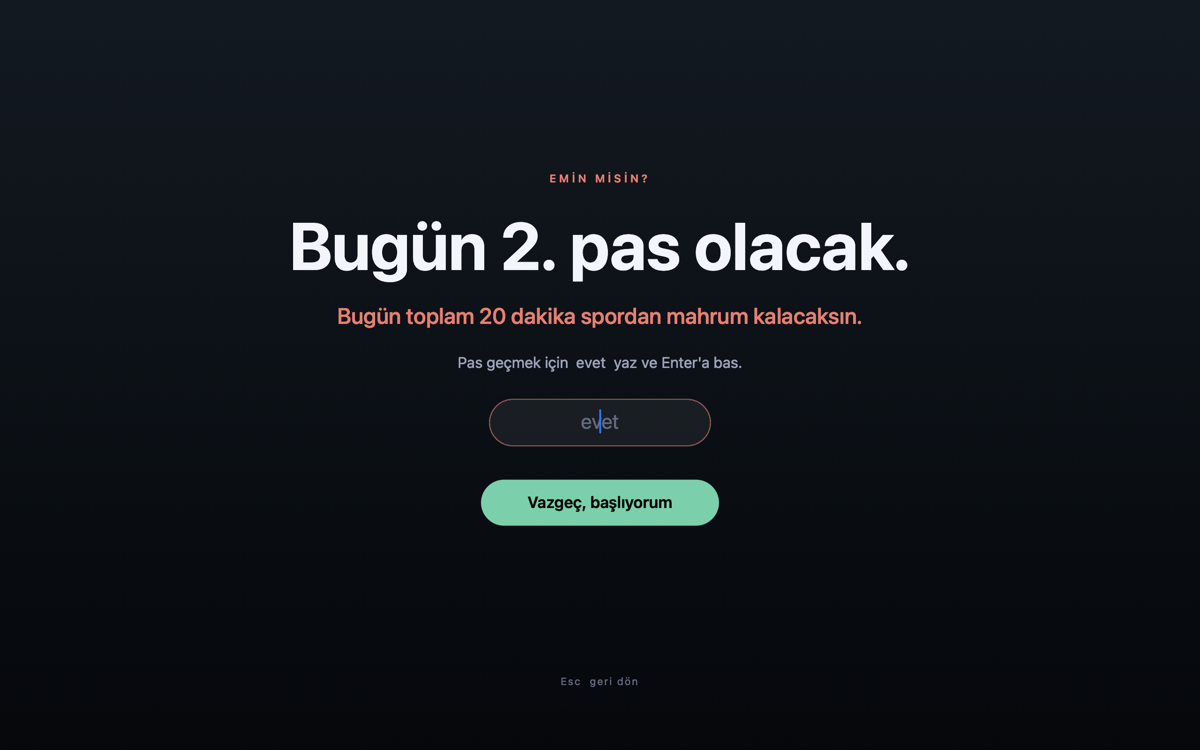
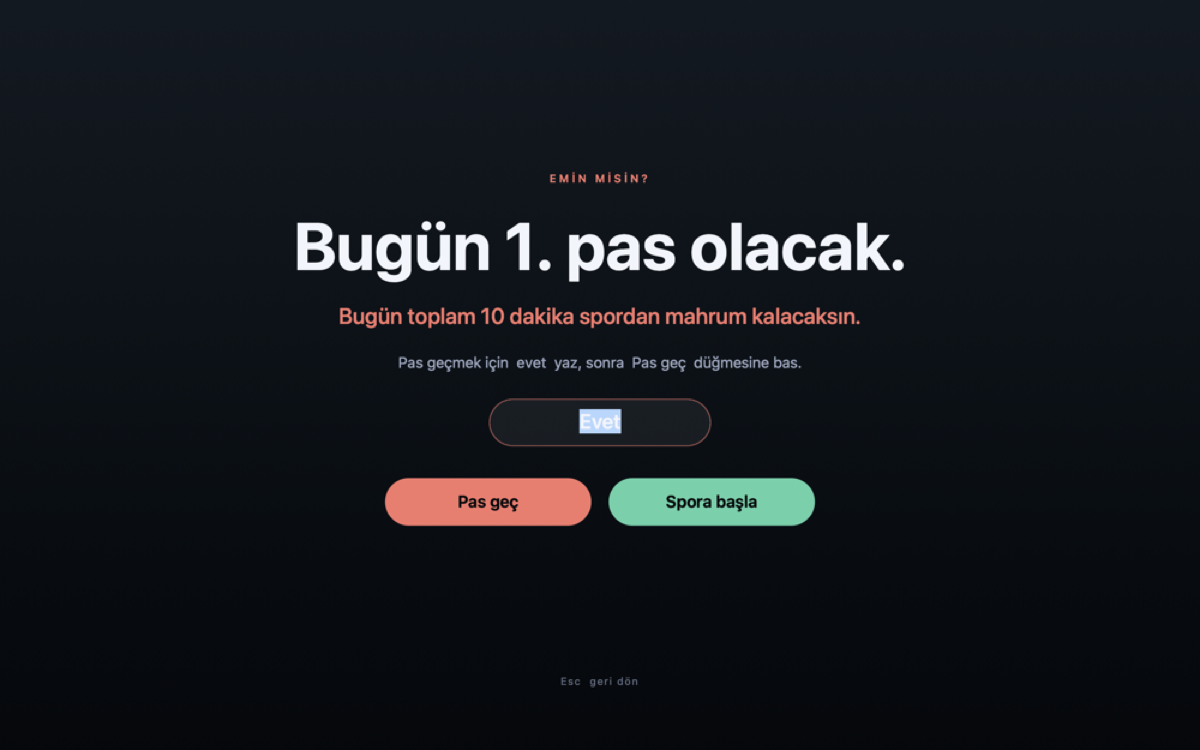
Pas onayında açık seçim: 'Pas geç' ve 'Spora başla' düğmeleri
'evet' yazmak artık doğrudan pas geçmiyor; 'Pas geç' düğmesini açıyor.

diff --git a/src/main.swift b/src/main.swift
@@ -217,6 +217,15 @@ final class ActionButton: NSButton {
     }
     required init?(coder: NSCoder) { fatalError() }
     @objc func fire() { handler?() }
+
+    func setActive(_ on: Bool) {
+        isEnabled = on
+        alphaValue = on ? 1 : 0.3
+    }
+}
+
+func isYes(_ text: String) -> Bool {
+    text.trimmingCharacters(in: .whitespacesAndNewlines).lowercased(with: Locale(identifier: "tr_TR")) == "evet"
 }
 
 /// Enter'a basılınca handler'ı çağıran yazı kutusu
@@ -240,7 +249,12 @@ final class EntryField: NSTextField {
         action = #selector(fire)
     }
     required init?(coder: NSCoder) { fatalError() }
+    var onChange: ((String) -> Void)?
     @objc func fire() { handler?(stringValue) }
+    override func textDidChange(_ notification: Notification) {
+        super.textDidChange(notification)
+        onChange?(stringValue)
+    }
 }
 
 func label(_ text: String, _ size: CGFloat, _ weight: NSFont.Weight, _ color: NSColor,
@@ -282,6 +296,7 @@ final class Controller {
     var fills: [NSView] = []
     var barW: [CGFloat] = []
     var confirmHints: [NSTextField] = []
+    var passButtons: [ActionButton] = []
     var timer: Timer?
     var deadline: Timer?
     var start = Date()
@@ -332,7 +347,7 @@ final class Controller {
     /// Her ekranın içeriğini yeniden kurar
     func render(_ build: (Canvas, Int) -> Void) {
         contents.forEach { $0.removeFromSuperview() }
-        contents = []; clocks = []; fills = []; barW = []; confirmHints = []
+        contents = []; clocks = []; fills = []; barW = []; confirmHints = []; passButtons = []
         for (i, root) in roots.enumerated() {
             let c = NSView(frame: root.bounds)
             c.alphaValue = 0
@@ -446,7 +461,7 @@ final class Controller {
             cv.view.addSubview(label("Bugün \(n). pas olacak.", 84 * s, .bold, C_WHITE, cv.row(cy + 104 * s, 110 * s)))
             cv.view.addSubview(label("Bugün toplam \(missed) dakika spordan mahrum kalacaksın.", 28 * s, .medium, C_WARN,
                                      cv.row(cy + 50 * s, 42 * s)))
-            let hint = label("Pas geçmek için  evet  yaz ve Enter'a bas.", 19 * s, .regular, C_MUTED,
+            let hint = label("Pas geçmek için  evet  yaz, sonra  Pas geç  düğmesine bas.", 19 * s, .regular, C_MUTED,
                              cv.row(cy - 2 * s, 30 * s))
             cv.view.addSubview(hint)
             self.confirmHints.append(hint)
@@ -462,38 +477,56 @@ final class Controller {
             if i == 0 {
                 let fs = 26 * s
                 let f = EntryField(frame: NSRect(x: 20, y: (fh - fs * 1.3) / 2, width: fw - 40, height: fs * 1.3), fontSize: fs)
-                f.handler = { [weak self] text in self?.confirmSkip(text) }
+                f.handler = { [weak self] text in self?.typedEnter(text) }
+                f.onChange = { [weak self] text in
+                    self?.passButtons.forEach { $0.setActive(isYes(text)) }
+                }
                 box.addSubview(f)
                 field = f
             }
 
-            let bw = 300 * s, bh = 58 * s
-            let back = ActionButton("Vazgeç, başlıyorum", primary: true,
-                                    frame: NSRect(x: (cv.w - bw) / 2, y: cy - 190 * s, width: bw, height: bh),
-                                    fontSize: 20 * s)
-            back.handler = { [weak self] in self?.startWorkout() }
-            cv.view.addSubview(back)
+            // İki net seçenek: hangisine basıldıysa o kaydedilir
+            let bw = 260 * s, bh = 60 * s, gap = 22 * s
+            let x0 = (cv.w - (bw * 2 + gap)) / 2, by = cy - 190 * s
+            let pass = ActionButton("Pas geç", primary: true,
+                                    frame: NSRect(x: x0, y: by, width: bw, height: bh),
+                                    fontSize: 21 * s, color: C_WARN)
+            pass.handler = { [weak self] in self?.confirmSkip() }
+            pass.setActive(false)
+            self.passButtons.append(pass)
+            let go = ActionButton("Spora başla", primary: true,
+                                  frame: NSRect(x: x0 + bw + gap, y: by, width: bw, height: bh), fontSize: 21 * s)
+            go.handler = { [weak self] in self?.startWorkout() }
+            cv.view.addSubview(pass); cv.view.addSubview(go)
 
             cv.view.addSubview(label("Esc  geri dön", 13 * s, .regular, C_FAINT, cv.row(58, 22), tracking: 1.2))
         }
         if let f = field { windows.first?.makeFirstResponder(f) }
     }
 
-    func confirmSkip(_ text: String) {
+    /// "Pas geç" yalnızca kutuya "evet" yazıldıktan sonra etkinleşir.
+    func confirmSkip() {
+        guard phase == .confirm, passButtons.first?.isEnabled == true else { return }
+        deadline?.invalidate()
+        journal.append(.skipped, planned: SESSION_MIN, done: 0, at: triggeredAt)
+        quit()
+    }
+
+    /// Kutuda Enter: karar düğmelerle verilir, burada yalnızca yol gösterilir.
+    func typedEnter(_ text: String) {
         guard phase == .confirm else { return }
-        let answer = text.trimmingCharacters(in: .whitespacesAndNewlines)
-            .lowercased(with: Locale(identifier: "tr_TR"))
-        if answer == "evet" {
-            deadline?.invalidate()
-            journal.append(.skipped, planned: SESSION_MIN, done: 0, at: triggeredAt)
-            quit()
+        let message: String
+        if isYes(text) {
+            message = "Şimdi seç:  Pas geç  ya da  Spora başla."
         } else {
             NSSound(named: "Funk")?.play()
-            for h in confirmHints {
-                let attrs = h.attributedStringValue.attributes(at: 0, effectiveRange: nil)
-                h.attributedStringValue = NSAttributedString(string: "Sadece  evet  yazarsan pas geçilir.", attributes: attrs)
-            }
+            message = "Sadece  evet  yazarsan pas geçebilirsin."
             (windows.first?.firstResponder as? NSTextView)?.string = ""
+            passButtons.forEach { $0.setActive(false) }
+        }
+        for h in confirmHints {
+            let attrs = h.attributedStringValue.attributes(at: 0, effectiveRange: nil)
+            h.attributedStringValue = NSAttributedString(string: message, attributes: attrs)
         }
     }
 

diff --git a/README.md b/README.md
@@ -17,7 +17,7 @@ Sana ne yapacağını söylemez. Ama sana sorar: **gerçekten yapıyor musun, yo
 | | |
 |---|---|
 | ![Soru](docs/1-spor-vakti.png) | **Saat başı (07:00–23:00):** Tam ekran "Spor vakti." Bugünkü durumun altta: seans, dakika, pas. |
-| ![Emin misin](docs/2-emin-misin.png) | **Pas geçmek istersen:** "Bugün 2. pas olacak. Bugün toplam 20 dakika spordan mahrum kalacaksın." Pas geçmek için **evet** yazman gerekir. |
+| ![Emin misin](docs/2-emin-misin.png) | **Pas geçmek istersen:** "Bugün 2. pas olacak. Bugün toplam 20 dakika spordan mahrum kalacaksın." Kutuya **evet** yazınca **Pas geç** düğmesi açılır. **Spora başla** her zaman orada. |
 | ![Seans](docs/3-seans.png) | **Başlıyorum dersen:** 10 dakikalık geri sayım. Erken bitirirsen eksik kalan dakikalar da sayılır. |
 | ![Tamamlandı](docs/4-tamamlandi.png) | **Bitince:** Bugün kaçıncı seans olduğu ve toplam spor süresi. |
 | ![Uyku hazırlığı](docs/5-uyku-hazirlik.png) | **23:30:** "Uyumak için hazırlıklarını yap." |
@@ -76,7 +76,7 @@ It doesn't tell you what to do. It asks: **are you actually doing it, or skippin
 ### How it works
 
 - **Every hour (07:00–23:00):** a full-screen "Spor vakti." prompt with today's tally (sessions, minutes, skips).
-- **Skip?** A confirmation screen shows the cost ("This will be skip #2 today, 20 minutes missed"). You have to type **evet** ("yes") to skip.
+- **Skip?** A confirmation screen shows the cost ("This will be skip #2 today, 20 minutes missed"). Typing **evet** ("yes") unlocks the **Pas geç** (Skip) button; **Spora başla** (Start) is always there. Your choice is recorded explicitly.
 - **Start?** A 10-minute countdown. Ending early still counts the missing minutes.
 - **Done:** today's session count and total exercise time.
 - **23:30:** "Get ready for bed." **23:59:** "Bedtime." Night notices close only with **Tamam** (OK).
